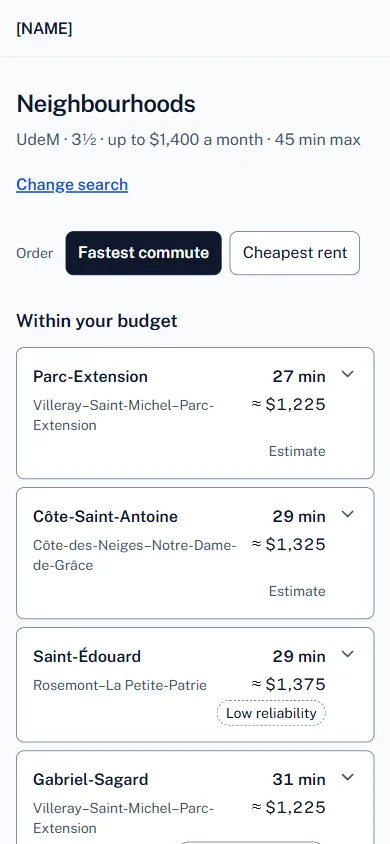
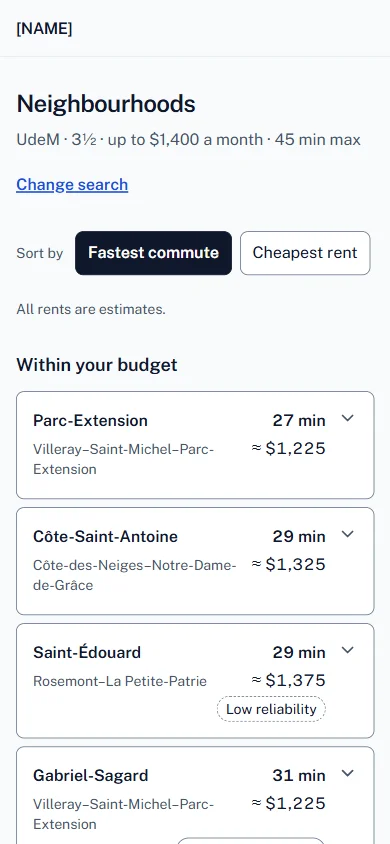
feat(web): owner's M4.2 wording and answers
- "Sort by"; commute detail in the owner's words (door to door, range
  for most homes, building times only; schedule date and access
  adjustments go to How it works in M4.3); fewer-sample and 2-hour
  lines.
- Over-budget count line; when nothing fits, name the cheapest (tested).
- Cards badge only real caveats; "All rents are estimates." above the
  list.
- ROADMAP M4 decisions 12-17 record the owner's answers; DESIGN.md and
  screenshots updated.

Claude-Session: https://claude.ai/code/session_01JJYy3w4mVdAEEmzzk44Lo2

Changed region(s): [[0.0308, 0.2773, 0.9846, 1.0], [0.9538, 0.4313, 0.9846, 0.4621]]

diff --git a/web/app/(site)/results/HoodCard.tsx b/web/app/(site)/results/HoodCard.tsx
@@ -1,7 +1,7 @@
 // One shortlist card (name, commute, rent, reliability badge). Tapping it opens the detail
 // panel in place: commute (median, range, buildings, flags, source) and rent (estimate,
 // CMHC basis, source, data dates). A native <details>, so it needs no JavaScript.
-import { type CampusMeta, type CampusResult, type CommuteFile, commuteTarget, formatTime, windowLabel } from "@/lib/commute";
+import { type CampusMeta, type CampusResult, type CommuteFile, departureWindow, type TimeBlock } from "@/lib/commute";
 import {
   BADGES,
   dataLine,
@@ -21,6 +21,8 @@ const t = strings.detail;
 
 export interface CardContext {
   campus: string;
+  /** Short campus name, "UdeM". */
+  campusLabel: string;
   campusMeta: CampusMeta;
   commuteMeta: CommuteFile["meta"];
   rentMeta: RentMeta;
@@ -28,28 +30,31 @@ export interface CardContext {
   room: boolean;
 }
 
+/** Whole minutes, or null when over the routing limit ("more than 2 hours"). */
+function wholeMinutes(v: number | null): number | null {
+  return v === null ? null : Math.round(v);
+}
+
+/** A building's median as shown: "27 min" or "more than 2 hours"; null = no data. */
+function buildingTime(b: TimeBlock, maxMin: number): string | null {
+  if (b.median !== null) return strings.card.minutes(Math.round(b.median));
+  return b.over_max.includes("median") ? t.overMax(maxMin) : null;
+}
+
 function CommuteDetail({ r, ctx, minutes }: { r: CampusResult; ctx: CardContext; minutes: number }) {
   const max = ctx.commuteMeta.max_trip_min;
   const dests = ctx.campusMeta.destinations;
-  const lines: string[] = [
-    t.median(minutes, commuteTarget(ctx.campus, ctx.campusMeta), windowLabel(ctx.commuteMeta)),
-    t.range(formatTime(r, "p10", max), formatTime(r, "p90", max)),
-  ];
+  const { start, end } = departureWindow(ctx.commuteMeta);
+  const target = dests.length > 1 ? t.toClosestBuilding(ctx.campusLabel) : t.toPlace(dests[0].name);
+  // p10 ≤ median ≤ the max commute, so p10 is always a number here.
+  const lines: string[] = [t.median(minutes, target, start, end), t.range(Math.round(r.p10!), wholeMinutes(r.p90), max)];
   if (dests.length > 1) {
-    for (const d of dests) {
+    const parts = dests.flatMap((d) => {
       const b = r.by_destination[d.id];
-      if (!b) continue;
-      const access = d.access_adjustment_min ? t.buildingAccess(t.signedMin(d.access_adjustment_min)) : "";
-      const time = formatTime(b, "median", max) + access;
-      // A building that is never the faster one just shows its time.
-      lines.push(
-        b.fastest_share
-          ? t.building(d.name, time, `${Math.round(b.fastest_share * 100)}%`)
-          : t.buildingTime(d.name, time),
-      );
-    }
-  } else if (dests[0]?.access_adjustment_min) {
-    lines.push(t.accessIncluded(t.signedMin(dests[0].access_adjustment_min)));
+      const time = b ? buildingTime(b, max) : null;
+      return time ? [{ name: d.name, time }] : [];
+    });
+    if (parts.length) lines.push(t.buildings(parts));
   }
   if (r.flags.includes("low_sample")) lines.push(t.lowSample(r.n_points));
   if (r.flags.includes("many_unreachable") && r.unreachable_share !== null) {
@@ -100,23 +105,17 @@ function RentDetail({ e, ctx }: { e: RentEntry | null; ctx: CardContext }) {
   );
 }
 
-function Badge({ entry }: { entry: { label: RentEntry["label"] } }) {
-  // "Estimate" is the normal case: plain muted text. Anything weaker gets an outline, so it
-  // reads as a caveat without colour (colour is kept for data).
-  const plain = entry.label === "neighbourhood";
+/** Only real caveats get a badge on the card; "Estimate" is said once above the list
+ * (owner, M4.2). An outline, never colour: solid for a wider area, dashed for weaker data. */
+function Badge({ label }: { label: RentEntry["label"] }) {
+  const dashed = isLowReliability(label) || label === "none";
   return (
     <span
-      className={
-        plain
-          ? "text-sm text-ink-muted"
-          : `inline-block rounded-full border px-2 text-sm leading-6 ${
-              isLowReliability(entry.label) || entry.label === "none"
-                ? "border-dashed border-control text-ink"
-                : "border-control text-ink"
-            }`
-      }
+      className={`inline-block rounded-full border border-control px-2 text-sm leading-6 text-ink ${
+        dashed ? "border-dashed" : ""
+      }`}
     >
-      {BADGES[entry.label]}
+      {BADGES[label]}
     </span>
   );
 }
@@ -151,9 +150,9 @@ export default function HoodCard({
           <span className="text-right tabular-nums">
             {!ctx.room && item.rent !== null ? formatRent(item.rent) : ""}
           </span>
-          {!ctx.room && item.label && (
+          {!ctx.room && item.label && item.label !== "neighbourhood" && (
             <span className="col-span-2 justify-self-end">
-              <Badge entry={{ label: item.label }} />
+              <Badge label={item.label} />
             </span>
           )}
         </summary>

diff --git a/web/lib/strings/en.ts b/web/lib/strings/en.ts
@@ -7,6 +7,13 @@
 
 import type { MaxCommute, SearchField, SearchSize } from "../search";
 
+/** "more than 2 hours" for the routing limit in minutes (commute.json max_trip_min). */
+function overMax(maxMin: number): string {
+  if (maxMin % 60 !== 0) return `more than ${maxMin} min`;
+  const h = maxMin / 60;
+  return `more than ${h} ${h === 1 ? "hour" : "hours"}`;
+}
+
 /** "a, b or c": an English list joined with "or" (no serial comma). */
 function orList(items: string[]): string {
   return items.length < 2 ? items.join("") : `${items.slice(0, -1).join(", ")} or ${items.at(-1)}`;
@@ -61,7 +68,9 @@ export const en = {
     maxCommute: (min: MaxCommute) => `${min} min max`,
     changeSearch: "Change search",
     update: "Update",
-    sort: { label: "Order", commute: "Fastest commute", rent: "Cheapest rent" },
+    sort: { label: "Sort by", commute: "Fastest commute", rent: "Cheapest rent" },
+    /** Above the list: the cards only badge real caveats (owner, M4.2). */
+    allEstimates: "All rents are estimates.",
     /** Group headings ("all": no budget, or rooms; read by screen readers only). Owner's words for "over" and "noData". */
     groups: {
       /** Screen-reader heading for the one list (no budget, or rooms). */
@@ -87,8 +96,13 @@ export const en = {
     noCommuteData: (campus: string) => `There is no commute data to ${campus} for these neighbourhoods.`,
     noneFits: (n: number, max: number, pct: number) =>
       n === 1
-        ? `The one neighbourhood within ${max} min costs more than ${pct}% over your budget.`
-        : `All ${n} neighbourhoods within ${max} min cost more than ${pct}% over your budget.`,
+        ? `The one neighbourhood within ${max} min is more than ${pct}% over your budget.`
+        : `The ${n} neighbourhoods within ${max} min are all more than ${pct}% over your budget.`,
+    cheapest: (name: string, rent: string) => `Cheapest: ${name}, ${rent}.`,
+    hiddenOverBudget: (n: number, pct: number) =>
+      n === 1
+        ? `1 more neighbourhood is more than ${pct}% over your budget.`
+        : `${n} more neighbourhoods are more than ${pct}% over your budget.`,
     tryBudget: (n: number) =>
       n === 1 ? "Try a higher budget, or leave it empty to see it." : "Try a higher budget, or leave it empty to see them all.",
     openMap: "See every neighbourhood on the map",
@@ -109,17 +123,21 @@ export const en = {
   },
   detail: {
     commuteHeading: "Commute",
-    median: (min: number, target: string, window: string) => `${min} min median, ${target}, ${window}.`,
-    range: (p10: string, p90: string) => `Most homes here (8 in 10): ${p10} to ${p90}.`,
-    building: (name: string, time: string, share: string) => `${name}: ${time}, fastest for ${share} of homes here.`,
-    buildingTime: (name: string, time: string) => `${name}: ${time}.`,
-    accessIncluded: (signed: string) => `Includes a ${signed} access adjustment (platform to entrance).`,
-    buildingAccess: (signed: string) => ` (incl. ${signed} access adjustment, platform to entrance)`,
-    lowSample: (n: number) => `Based on only ${n} sample points.`,
+    /** Owner's wording. The schedule date and the access adjustments are explained in How it
+     * works (M4.3), not here. */
+    median: (min: number, target: string, start: string, end: string) =>
+      `About ${min} min door to door, ${target}, on a typical weekday morning (leaving ${start}–${end}).`,
+    toClosestBuilding: (campus: string) => `to the closest ${campus} building`,
+    toPlace: (name: string) => `to ${name}`,
+    /** 10th to 90th percentile in whole minutes; null = over the routing limit. */
+    range: (lo: number, hi: number | null, maxMin: number) =>
+      `Depending on where you live here: ${hi === null ? `${lo} min to ${overMax(maxMin)}` : `${lo}–${hi} min`} for most homes.`,
+    /** "Roger-Gaudry: 27 min · Jean-Brillant: 28 min" (names as in commute.json). */
+    buildings: (parts: { name: string; time: string }[]) => parts.map((p) => `${p.name}: ${p.time}`).join(" · "),
+    overMax: (maxMin: number) => overMax(maxMin),
+    lowSample: (n: number) => `Few homes sampled here (${n}), so this is less certain.`,
     manyUnreachable: (pct: string, maxMin: number) =>
-      `${pct} of homes here are more than ${maxMin} min away by transit.`,
-    /** An access adjustment: "+1.9 min", "−2.4 min". */
-    signedMin: (adj: number) => `${adj > 0 ? "+" : "−"}${Math.abs(adj)} min`,
+      `${pct} of homes here are ${overMax(maxMin)} away by transit.`,
     commuteSource:
       "Travel times are derived from STM, REM and exo schedules (CC BY 4.0). Schedules don’t include delays or outages.",
     rentHeading: (size: string) => `Rent, ${size}`,

diff --git a/web/lib/strings/strings.test.ts b/web/lib/strings/strings.test.ts
@@ -40,11 +40,32 @@ describe("strings", () => {
   });
 
   it("takes limits and percentages as numbers, never typed", () => {
-    expect(strings.detail.manyUnreachable("15%", 120)).toContain("more than 120 min");
+    expect(strings.detail.manyUnreachable("15%", 120)).toBe("15% of homes here are more than 2 hours away by transit.");
+    expect(strings.detail.overMax(90)).toBe("more than 90 min");
+    expect(strings.detail.overMax(60)).toBe("more than 1 hour");
     expect(strings.results.groupHint.over(10)).toBe("Up to 10% over your budget.");
-    expect(strings.results.noneFits(2, 30, 10)).toContain("more than 10% over");
-    expect(strings.detail.signedMin(1.9)).toBe("+1.9 min");
-    expect(strings.detail.signedMin(-2.4)).toBe("−2.4 min");
+    expect(strings.results.noneFits(3, 30, 10)).toBe("The 3 neighbourhoods within 30 min are all more than 10% over your budget.");
+    expect(strings.results.hiddenOverBudget(4, 10)).toBe("4 more neighbourhoods are more than 10% over your budget.");
+    expect(strings.results.hiddenOverBudget(1, 10)).toBe("1 more neighbourhood is more than 10% over your budget.");
+  });
+
+  it("keeps the owner's M4.2 wording for the commute detail", () => {
+    expect(strings.detail.median(27, strings.detail.toClosestBuilding("UdeM"), "7:30", "8:30")).toBe(
+      "About 27 min door to door, to the closest UdeM building, on a typical weekday morning (leaving 7:30–8:30).",
+    );
+    expect(strings.detail.range(20, 37, 120)).toBe("Depending on where you live here: 20–37 min for most homes.");
+    expect(strings.detail.range(40, null, 120)).toBe(
+      "Depending on where you live here: 40 min to more than 2 hours for most homes.",
+    );
+    expect(
+      strings.detail.buildings([
+        { name: "Roger-Gaudry", time: "27 min" },
+        { name: "Jean-Brillant", time: "28 min" },
+      ]),
+    ).toBe("Roger-Gaudry: 27 min · Jean-Brillant: 28 min");
+    expect(strings.detail.lowSample(2)).toBe("Few homes sampled here (2), so this is less certain.");
+    expect(strings.results.cheapest("Quartier A", "≈ $1,650")).toBe("Cheapest: Quartier A, ≈ $1,650.");
+    expect(strings.results.sort.label).toBe("Sort by");
   });
 
   it("keeps the owner's first-screen wording", () => {

diff --git a/web/lib/shortlist.ts b/web/lib/shortlist.ts
@@ -41,8 +41,10 @@ export interface Shortlist {
   tooFar: number;
   /** No commute data for this campus: hidden, and said so under the results (decision 4). */
   hiddenNoCommute: number;
-  /** More than 10% over the budget: hidden (decision 2). */
+  /** More than 10% over the budget: hidden, with a count line (decision 2). */
   hiddenOverBudget: number;
+  /** The cheapest of those (then fastest), named when nothing else is left. */
+  cheapestHidden: { name: string; rent: number } | null;
   /** Rooms: the one citywide figure, and whether it is above the budget (decision 5). */
   roomEstimate: number | null;
   roomWarning: boolean;
@@ -79,11 +81,13 @@ export function buildShortlist(
     tooFar: 0,
     hiddenNoCommute: 0,
     hiddenOverBudget: 0,
+    cheapestHidden: null,
     roomEstimate: room ? rent.meta.room.estimate : null,
     roomWarning: room && search.budget !== null && search.budget < rent.meta.room.estimate,
   };
 
   const groups: Record<GroupKey, ShortlistItem[]> = { fits: [], over: [], all: [], noData: [] };
+  let cheapest: ShortlistItem | null = null;
   for (const hood of hoods) {
     const c = commute.results[hood.id]?.[search.campus];
     if (!c || (c.median === null && !c.over_max.includes("median"))) {
@@ -115,9 +119,15 @@ export function buildShortlist(
       continue;
     }
     const g = rentGroup(item.rent, search.budget);
-    if (g === "hidden") out.hiddenOverBudget++;
-    else groups[g as "fits" | "over"].push(item);
+    if (g !== "hidden") {
+      groups[g as "fits" | "over"].push(item);
+      continue;
+    }
+    out.hiddenOverBudget++;
+    if (!cheapest || byRent(item, cheapest) < 0) cheapest = item;
   }
+
+  if (cheapest) out.cheapestHidden = { name: cheapest.name, rent: cheapest.rent! };
 
   const order: GroupKey[] = mode === "budget" ? ["fits", "over", "noData"] : ["all"];
   for (const key of order) {

diff --git a/web/app/(site)/results/page.tsx b/web/app/(site)/results/page.tsx
@@ -158,6 +158,7 @@ async function ResultsBody({ searchParams }: Pick<PageProps<"/results">, "search
     campusMeta: commute.meta.campuses[s.campus],
     commuteMeta: commute.meta,
     rentMeta: rent.meta,
+    campusLabel,
     sizeLabel,
     room: list.mode === "room",
   };
@@ -202,6 +203,10 @@ async function ResultsBody({ searchParams }: Pick<PageProps<"/results">, "search
 
       {sortable && <SortToggle search={s} sort={sort} />}
 
+      {list.mode !== "room" && list.groups.length > 0 && (
+        <p className="mt-6 text-sm text-ink-muted">{t.allEstimates}</p>
+      )}
+
       {list.groups.map((g) => (
         <Group
           key={g.key}
@@ -225,10 +230,19 @@ async function ResultsBody({ searchParams }: Pick<PageProps<"/results">, "search
           ) : (
             <>
               <p className="font-semibold">{t.noneFits(list.withinCommute, s.maxCommute, SLIGHTLY_OVER_PCT)}</p>
+              {list.cheapestHidden && (
+                <p className="mt-1">
+                  {t.cheapest(list.cheapestHidden.name, formatRent(list.cheapestHidden.rent))}
+                </p>
+              )}
               <p className="mt-1">{t.tryBudget(list.withinCommute)}</p>
             </>
           )}
         </div>
+      )}
+
+      {list.groups.length > 0 && list.hiddenOverBudget > 0 && (
+        <p className="mt-6 text-sm text-ink-muted">{t.hiddenOverBudget(list.hiddenOverBudget, SLIGHTLY_OVER_PCT)}</p>
       )}
 
       {list.hiddenNoCommute > 0 && (

diff --git a/web/lib/shortlist.test.ts b/web/lib/shortlist.test.ts
@@ -98,6 +98,7 @@ describe("buildShortlist", () => {
     expect(s.mode).toBe("budget");
     expect(ids(s)).toEqual({ fits: ["A", "E"], over: ["B"], noData: ["D"] });
     expect(s.hiddenOverBudget).toBe(1);
+    expect(s.cheapestHidden).toEqual({ name: "Quartier C", rent: 1550 });
   });
 
   it("with no budget: one list by commute, no groups; 'Not enough data' stays in commute order", () => {
@@ -193,6 +194,20 @@ describe("buildShortlist", () => {
     expect(s.groups).toEqual([]);
     expect(s.withinCommute).toBe(1);
     expect(s.hiddenOverBudget).toBe(1);
+    expect(s.cheapestHidden).toEqual({ name: "Quartier A", rent: 3000 });
+  });
+
+  it("names the cheapest neighbourhood hidden for budget, then the faster one", () => {
+    const { hoods, commute, rent } = fixture([
+      ["A", 30, 2000],
+      ["B", 20, 1800],
+      ["C", 10, 1800], // same rent as B, faster
+      ["D", 40, 1000], // fits
+    ]);
+    const s = buildShortlist(hoods, commute, rent, search(), "commute");
+    expect(s.hiddenOverBudget).toBe(3);
+    expect(s.cheapestHidden).toEqual({ name: "Quartier C", rent: 1800 });
+    expect(buildShortlist(hoods, commute, rent, search({ budget: null }), "commute").cheapestHidden).toBeNull();
   });
 
   it("carries what a card shows: rounded minutes, rent and its label", () => {

diff --git a/web/DESIGN.md b/web/DESIGN.md
@@ -54,11 +54,12 @@ evening; then reading a shortlist. Light only: daytime use, and the map's data c
 - **Primary button:** ink, 48 px, full width on phones, content width from `sm`.
 - **Text links:** `#1d4ed8`, underlined, semibold; standalone ones have a 44 px hit area.
 - **Shortlist card:** a native `<details>` in a white card with a control edge. Summary: name
-  and borough on the left; minutes (semibold) and rent, tabular, on a shared right edge; the
-  reliability badge on its own line. Opening it shows the detail panel in place (no modal).
-- **Reliability badge:** words, never colour. "Estimate" is plain muted text;
-  "Wider-area estimate" has a solid outline; "Low reliability" and "Not enough data" a dashed one.
-- **Order toggle:** two links styled like Choice buttons (ink = current, `aria-current`), so it
+  and borough on the left; minutes (semibold) and rent, tabular, on a shared right edge; a
+  caveat badge, if any, on its own line. Opening it shows the detail panel in place (no modal).
+- **Reliability badge:** words, never colour, and only for real caveats: "Wider-area
+  estimate" has a solid outline; "Low reliability" and "Not enough data" a dashed one. The
+  normal case is said once above the list ("All rents are estimates.", ROADMAP decision 16).
+- **Sort toggle:** two links styled like Choice buttons (ink = current, `aria-current`), so it
   works without JavaScript.
 - **Show more:** a `<details>` per group after the first 5 cards; its control stays in place and
   reads "Show fewer" when open.

diff --git a/docs/ROADMAP.md b/docs/ROADMAP.md
@@ -75,3 +75,20 @@ Added by the owner (2026-11-23), when M4 started:
     grouped and sorted shortlist, detail panel; M4.3 map as the results' second view,
     example-search link ("UdeM, 3½, $1,500, 45 min"), How it works, data line, then
     `/design-review` once.
+
+Added by the owner (2026-11-24), reviewing M4.2:
+
+12. **Commute filter on the minutes shown:** a 45.4-min median shows as 45 and passes a
+    45-min max; 45.6 shows as 46 and doesn't (same rule as the budget's rounded rent).
+13. **No budget:** one list in commute order, no groups and no "cheapest" order. A
+    neighbourhood with no rent data keeps its "Not enough data" badge in its commute place
+    (decision 3's bottom group is for searches with a budget).
+14. **First 5 per group,** then "Show N more", for every group.
+15. **Over budget by more than 10%:** hidden, with a count line ("N more neighbourhoods are
+    more than 10% over your budget."). If nothing is left, name the cheapest one.
+16. **Reliability on cards:** one line above the list ("All rents are estimates."); badges
+    only for real caveats (wider-area estimate, low reliability, not enough data). Plain
+    "Estimate" is not repeated on every card.
+17. **Commute detail:** door-to-door time, the range for most homes and, for UdeM, each
+    building's time. The schedule date and the access adjustments are explained in How it
+    works (M4.3), not in the panel.
